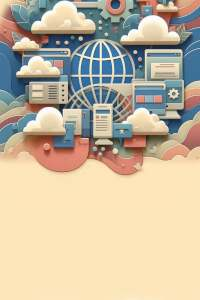
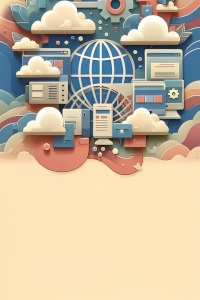
💄 style - Update certificate thumb image

diff --git a/_sass/layouts/_card.scss b/_sass/layouts/_card.scss
@@ -29,7 +29,7 @@
         object-fit: cover;
         object-position: center;
         z-index: 1;
-        filter: blur(0.5px);
+        filter: blur(0.3px);
     }
 
     .certificate-content {

diff --git a/_collections/_certificates_us/2024-09-27T21-30.md b/_collections/_certificates_us/2024-09-27T21-30.md
@@ -2,30 +2,15 @@
 layout: certificate
 type: course
 code: "wwKe4ioP40Wk3NQnc6SOQw"
-level: basic
+authority: dio
 certificate:
-    name: "Entendendo Comunicação Client x Server"
-    code: "BDQAQZ7K"
-    image: "certificate.png"
-    workload: 2
-    validationLink: "https://www.dio.me/en/certificate/BDQAQZ7K/share"
-    download: "link.com"
-date:
-    issued: "2024-09-27T21:30:00"
-    expiration: null
-authority:
-    name: "DIO"
-    judiciary: "ACADEMIA PME EDUCACAO E CONSULTORIA EM NEGOCIOS LTDA"
-    CNPJ: "26.965.884/0001-02"
-    site: "https://www.dio.me/"
-    logo: "logo.png"
-    country: "br"
+    name: "Understanding Client-Server Communication"
 competencies: [
-    "html",
-    "javascript"
+    html5,
+    css3,
+    javascript
 ]
-banner:
-    image: "/assets/banner/banner.jpg"
+date: "2024-09-27T21:30:00"
 ---
 
 Content of the poster in English...
